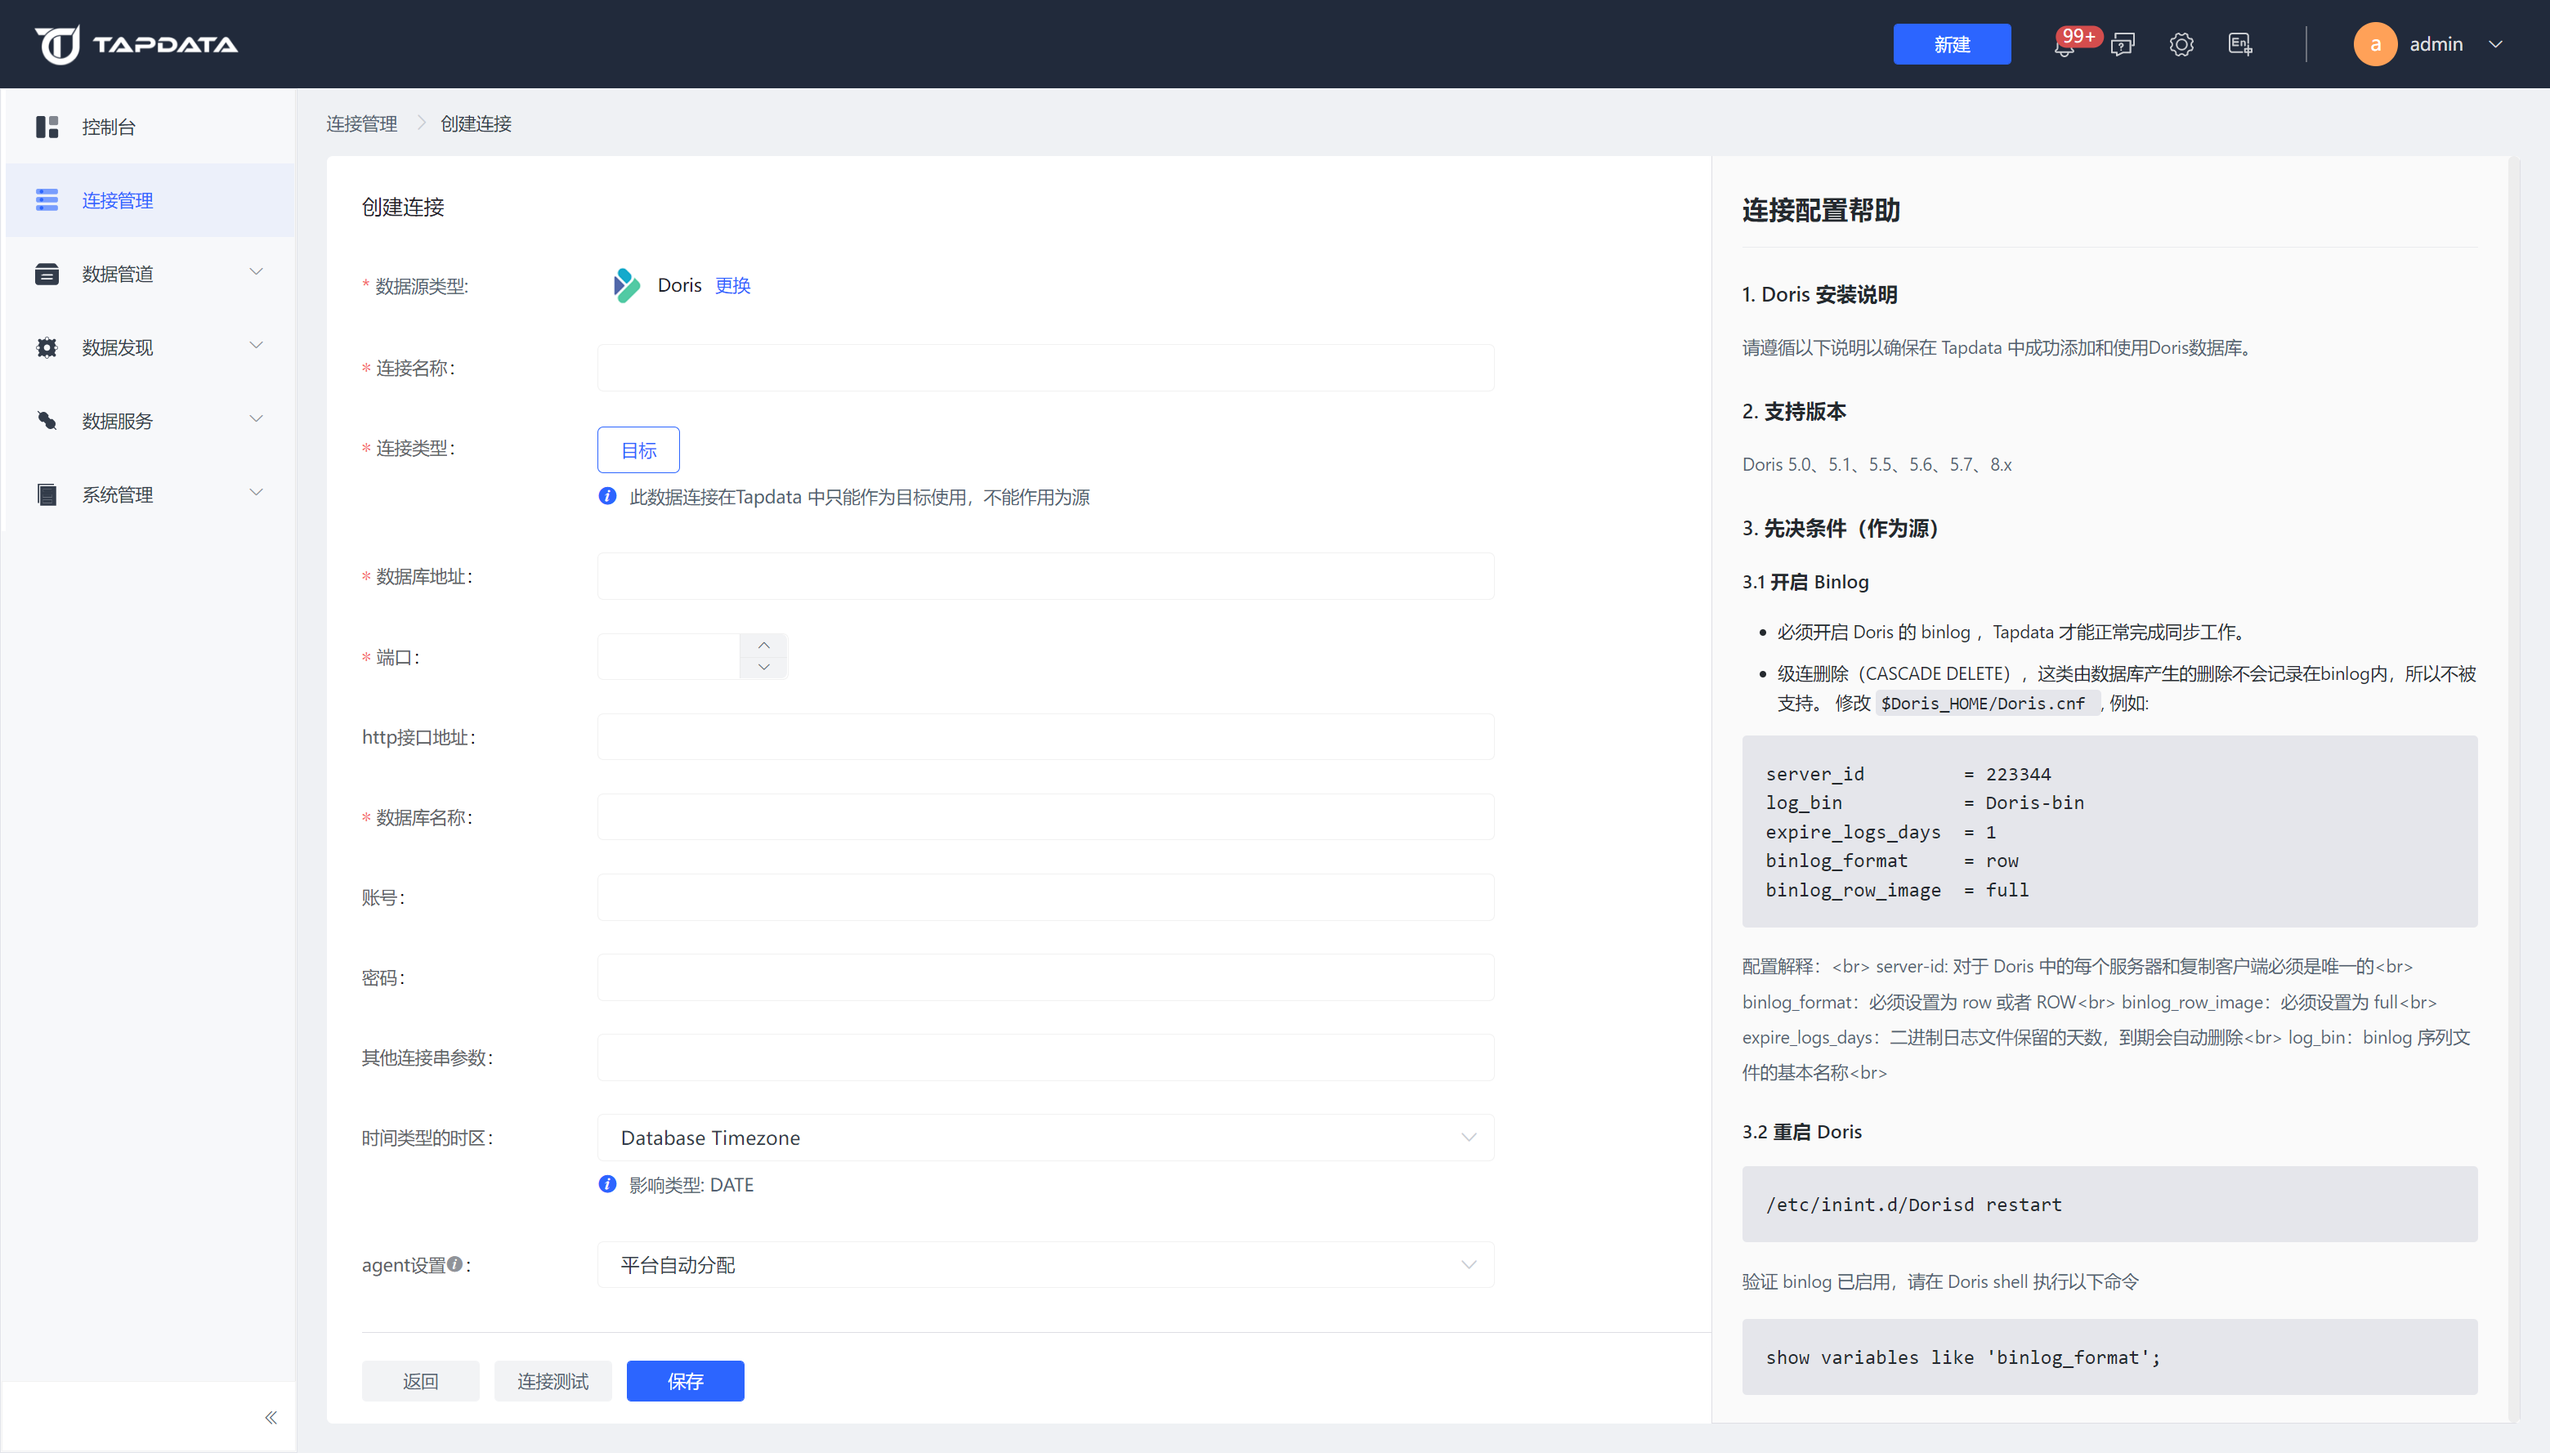
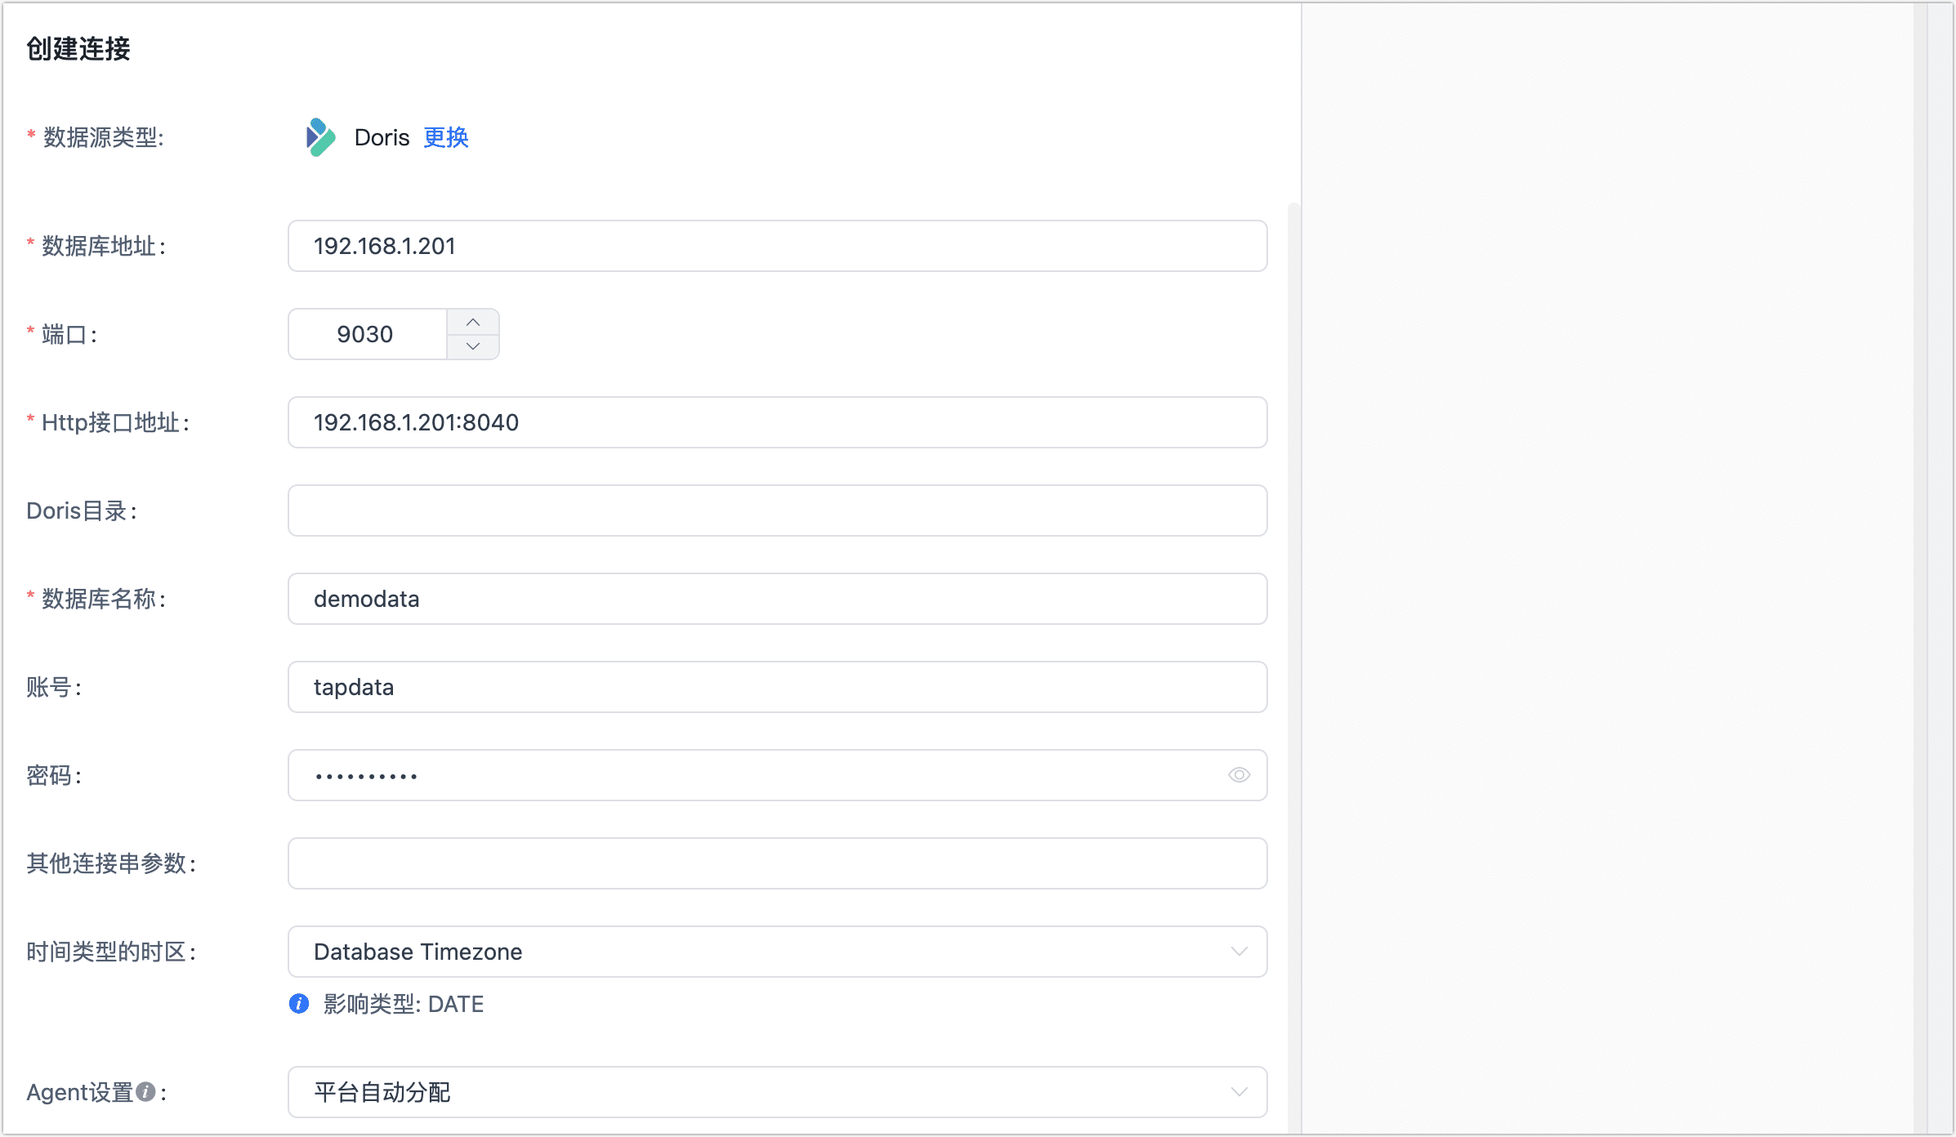
Part 2

diff --git a/docs/enterprise/prerequisites/beta/apache-doris.md b/docs/enterprise/prerequisites/beta/apache-doris.md
@@ -1,7 +1,100 @@
-# Apache Doris
+# Doris
 
-请遵循以下说明以确保在 Tapdata 中成功添加和使用Doris数据库。
+Doris 适用于实时数据分析和报表，支持高并发查询和复杂分析，广泛应用于数据仓库、BI报表和数据可视化。Tapdata 支持将 Doras 作为源或目标库来构建数据管道，帮助您快速完成大数据分析场景下的数据流转。
 
-import Content from '../../../reuse-content/_apache-doris.md';
+接下来，跟随本文介绍在 Tapdata 平台上连接 Doris 数据源。
 
-<Content />
+```mdx-code-block
+import Tabs from '@theme/Tabs';
+import TabItem from '@theme/TabItem';
+```
+
+## 支持版本
+
+Dorix 1.x、2.x
+
+## 准备工作
+
+1. 登录 Doris 数据库，执行下述格式的命令，创建用于数据同步/开发任务的账号。
+
+   ```sql
+   CREATE USER 'username'@'host' IDENTIFIED BY 'password';
+   ```
+
+   - **username**：用户名。
+   - **password**：密码。
+   - **host**：允许该账号登录的主机，百分号（%）表示允许任意主机。
+
+   示例：创建一个名为 tapdata 的账号。
+
+   ```sql
+   CREATE USER 'tapdata'@'%' IDENTIFIED BY 'Tap@123456';
+   ```
+
+2. 为刚创建的账号授予权限，您也可以基于业务需求设置更精细化的权限控制。
+
+```mdx-code-block
+<Tabs className="unique-tabs">
+<TabItem value="作为源库">
+```
+```sql
+-- 请根据下述提示更换 catalog_name、database_name 和 username
+GRANT SELECT_PRIV ON catalog_name.database_name.* TO 'username'@'%';
+```
+</TabItem>
+
+<TabItem value="作为目标库">
+
+```sql
+-- 请根据下述提示更换 catalog_name、database_name 和 username
+GRANT SELECT_PRIV, ALTER_PRIV, CREATE_PRIV, DROP_PRIV, LOAD_PRIV ON catalog_name.database_name.* TO 'username'@'%';
+```
+</TabItem>
+</Tabs>
+
+:::tip
+
+请更换上述命令中的信息：
+* **catalog_name**：数据目录名称，默认名称为 **internal**，可以通过 [SHOW CATALOGS](https://doris.apache.org/zh-CN/docs/1.2/sql-manual/sql-reference/Show-Statements/SHOW-CATALOGS) 命令查看已创建的数据目录。更多介绍，见[多源数据目录](https://doris.apache.org/zh-CN/docs/1.2/lakehouse/multi-catalog/)。
+* **database_name**：要授予权限的数据库名称。
+* **username**：用户名。
+:::
+
+
+
+
+
+## 连接 Doris
+
+1. 登录 Tapdata 平台。
+
+2. 在左侧导航栏，单击**连接管理**。
+
+3. 在页面右侧，单击**创建**。
+
+4. 在弹出的对话框中，搜索并选择 **Doris**。
+
+5. 在跳转到的页面，根据下述说明填写 Doris 的连接信息。
+
+   ![连接 Doris](../../images/connect_doris.png)
+
+    - **连接名称**：填写具有业务意义的独有名称。
+    - **连接类型**：支持将 Doris 作为源或目标库。
+    - **数据库地址**：Doris 的连接地址。
+    - **端口**：Doris 的查询服务端口，默认端口为 **9030**。
+    - **HTTP 接口地址**：BE 服务的 HTTP 协议访问地址，包含地址和端口信息，默认端口为 **8040**。
+    - **Doris 目录**：Doris 的目录，其层级在数据库之上，如使用默认目录可置空，更多介绍，见[多源数据目录](https://doris.apache.org/zh-CN/docs/1.2/lakehouse/multi-catalog/)。
+    - **数据库名称**：一个连接对应一个数据库，如有多个数据库则需创建多个数据连接。
+    - **账号**、**密码**：分别填写数据库的账号和密码。
+    - **其他连接参数**：额外的连接参数，默认为空。
+    - **时间类型的时区**：默认为数据库所用的时区，您也可以根据业务需求手动指定。 
+    - **agent 设置**：默认为**平台自动分配**，您也可以手动指定 Agent。
+
+6. 单击页面下方的**连接测试**，提示通过后单击**保存**。
+
+   :::tip
+
+   如提示连接测试失败，请根据页面提示进行修复。
+
+   :::
+
